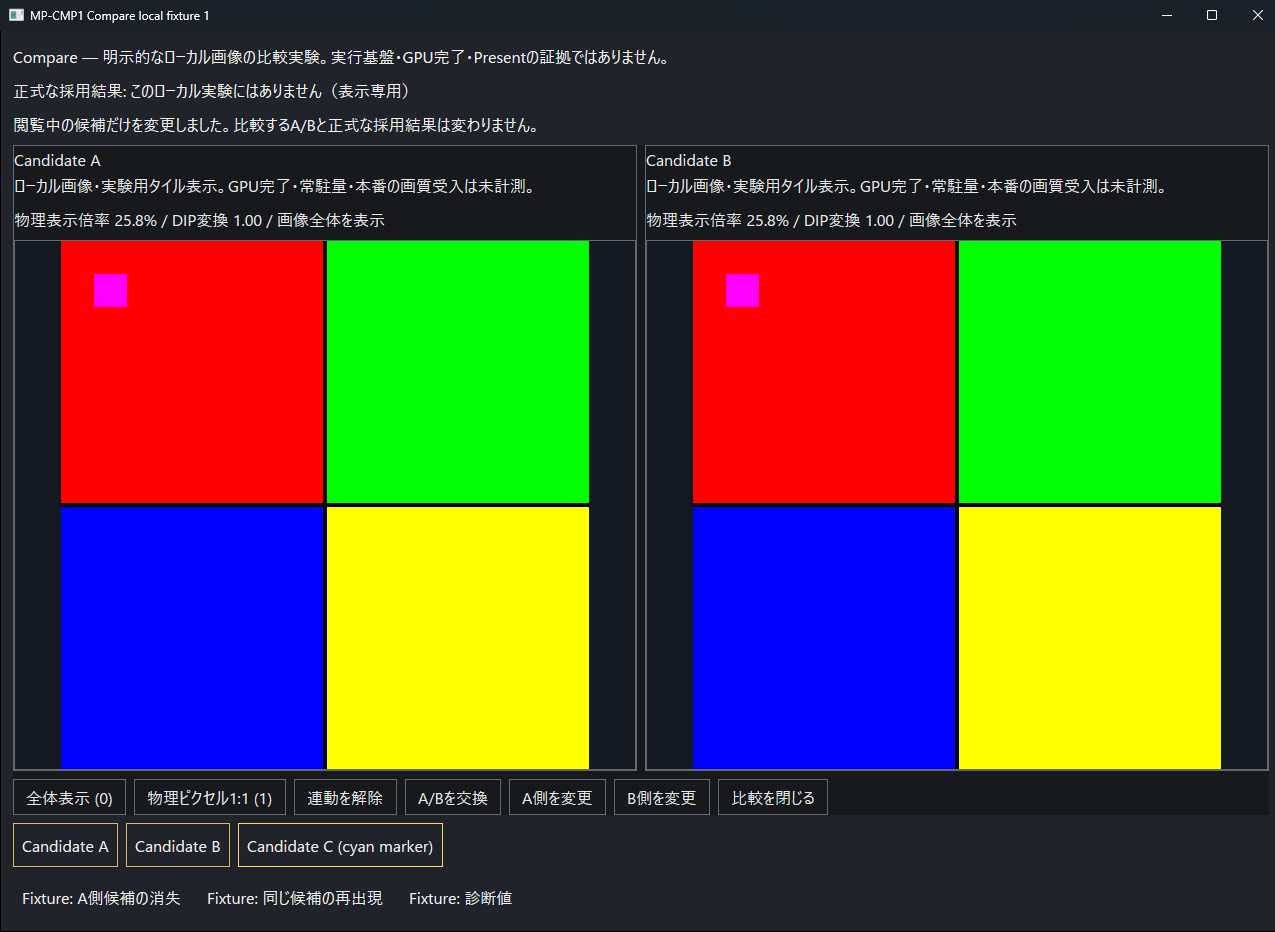
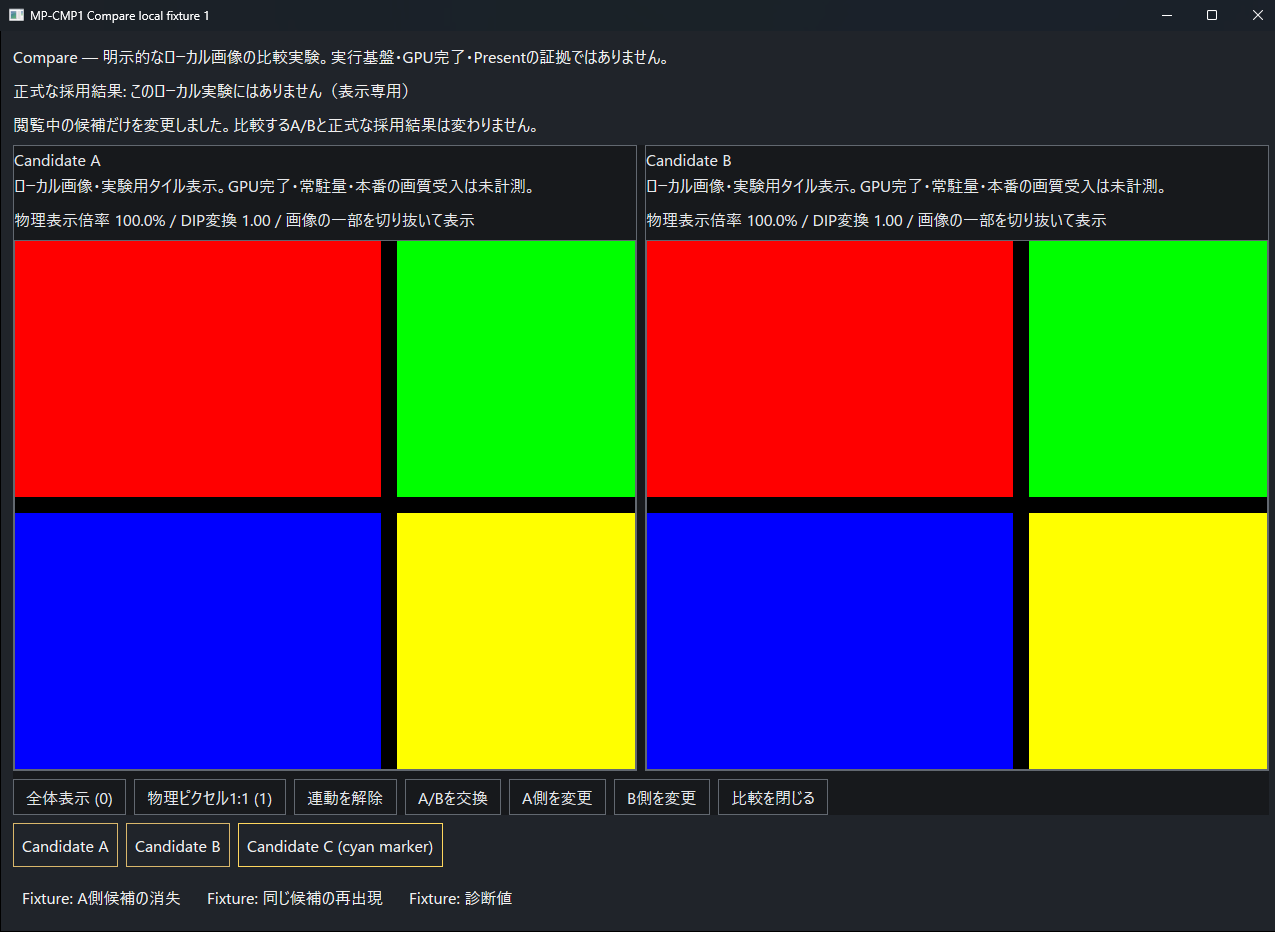
docs(compare): measure the 1:1 restore and align the trace warm-up
Round-7 review repair (PASS 0 / 1 / 0). Evidence only; no product code
changed.

- The restore captures now show what they claim: both panes genuinely at
  physical 1:1 (100%, clipped) before one side leaves the projection, and
  the same side restored at 100% afterwards.
- The plan's warm-up figure matches the published record (113 ms).
- Round 7 is recorded in §19.292 with the verdict and this repair.

Changed region(s): [[0.0, 0.2178, 1.0, 0.8401]]

diff --git a/docs/development/IMPLEMENTATION_MASTER_PLAN.md b/docs/development/IMPLEMENTATION_MASTER_PLAN.md
@@ -5141,7 +5141,7 @@ SecretValue` are all refused; existing redactor behavior is unchanged.
 - **Authority and unchanged scope:** the Caller's plan-completion/resumption instruction under [ADR-0014](../decisions/ADR-0014-YAGNI-SCOPE-AND-RESUMPTION.md), implementing [DC-MP-CMP1](../architecture/DESKTOP_DESIGN_CONTRACTS.md#dc-mp-cmp1) with the values [ADR-0015](../decisions/ADR-0015-UX2-DECISION-CLOSURE.md) ratified (Q5–Q14). No contract, DD, UX, R0 or Runtime owner was amended, and this entry records implementation and observation, not acceptance.
 - **Implementation (`crates/desktop-gpui/src/compare_view.rs`, `image_viewer.rs`, `image_upload.rs`, `lib.rs`, `crates/ui-model/src/lib.rs`, `apps/desktop/examples/compare.rs`):** one shared ideal camera (normalized anchor plus a multiplier over each pane's own contain-fit) with a separate physical 1:1 mode; each pane clamps independently and a clamped anchor is never fed back; unlink keeps each display and only lets later gestures diverge; Swap exchanges candidates between two surviving entities so transforms, ownership and focus stay put; a side replacement keeps the link and resets the pair to Fit; the shell withholds a side whose identity left the projection and states its own reason, and a reappearing side is reported as awaiting its authorized picture rather than keeping the withheld reason under an available label. A same-key treatment attaches one verified frame to both panes (one decode, one entry, two consumers); different keys prepare independent entries. Per-pair Fit and physical 1:1 apply to both panes in either link state, matching ADR-0015 Q6/Q10 and the trace's own operations.
 - **Observed native (release, 100% displays, Windows `10.0.26300.0`):** a linked pan moved both panes by the same amount and preserved their relative offset; after unlink only the originating pane moved; per-pair Fit and 1:1 reset both panes in both link states, with the pixel content matching the stated 25.8% whole view and 100% clipped view; Swap exchanged the labels while each pane kept its own pan and the focus target stayed on the same pane; a plain candidate selection changed only the Viewed choice; a side replacement changed that label, kept the link and returned the pair to Fit; the availability fixtures removed one side with its own unavailable reason, and the same candidate returned at its previous transform in a fresh process; in a run that had already replaced several identities the same action reported the retained-payload bound explicitly instead of showing a stale picture. Close exits 0 in both windows. One close leaves the service reporting one retained entry with one consumer and no pane attachment, and repeated open/replace/close stops at the retained ceiling with the explicit sentence instead of growing; after a close, a reappearing Viewed candidate is re-acquired when its identity can still be admitted and otherwise states that refusal, never a stale picture.
-- **Trace harness, exercised once (`--fixture --shared --trace`):** one JSON line, 1988 ledger rows over 60 s, `ready` after a 115 ms warm-up, `settled`, cancel-probe stage 3 (`submitted`, `restored`, `verified_no_late_overwrite`), zero refusals, `decode_calls` 1, `retained_frames` 1, `consumers` 2 and identical decoded RGBA SHA-256 for both panes; the pair camera delta stayed exactly 0 through the linked pan trace and grew monotonically after the unlink step. The export marks Present, GPU, 8K, mixed DPI, physical 1:1 and cursor-anchored zoom `NOT_MEASURED`, and the fixed five-run × four-variant matrix stays `NOT_RUN` because measured R5 reuse/fairness needs MP-R0D and an explicit experiment authorization.
+- **Trace harness, exercised once (`--fixture --shared --trace`):** one JSON line, 1988 ledger rows over 60 s, `ready` after a 113 ms warm-up, `settled`, cancel-probe stage 3 (`submitted`, `restored`, `verified_no_late_overwrite`), zero refusals, `decode_calls` 1, `retained_frames` 1, `consumers` 2 and identical decoded RGBA SHA-256 for both panes; the pair camera delta stayed exactly 0 through the linked pan trace and grew monotonically after the unlink step. The export marks Present, GPU, 8K, mixed DPI, physical 1:1 and cursor-anchored zoom `NOT_MEASURED`, and the fixed five-run × four-variant matrix stays `NOT_RUN` because measured R5 reuse/fairness needs MP-R0D and an explicit experiment authorization.
 - **Independent review of the uncommitted candidate:** an independent reviewer returned five findings. (1) A pair change in the shell reset only the cameras, so a stale picture could stay under the new label - replaced sides now state that the new candidate's authorized image is not yet shown. (2) A reappearing side kept the withheld reason indefinitely - it now moves to an explicit awaiting-picture state instead of contradicting its label. (3) The trace samples scene readiness before the command but cameras after it - retained as the frozen protocol the definition file states (`scene_sample_order`), because it answers whether the previous scene was composed before the next input arrived. (4) The trace's Fit was pair-wide while the control fitted only the active pane when unlinked - the control is now per-pair in both link states, which also removed the now-unused per-pane `fit`. (5) The trace never covers 1:1 or cursor-anchored zoom - both are now exported as explicit `NOT_MEASURED` scopes instead of being left implicit. The reviewer's camera-origin observation is also applied: a pane's camera event propagates the shared camera without claiming that pane as the interaction origin, so a pair-wide control cannot move the pane Swap returns focus to (Q12).
 - **Independent Gate for the first candidate:** Gate `92249c9f-8789-479e-8db6-623353519921` (`cos-desktop-cmp1-7fe5bad-r1`) is **SUCCEEDED** on pushed `7fe5bade3085dbdf2c56c3e31f281dfcf20ce5d3` in an independent detached checkout with **8/8 checks PASS** (fmt 1.7 s, metadata 0.2 s, dependency self-test 0.5 s, dependency rules 0.2 s, plan ledger 0.4 s, clippy 89.2 s, workspace tests 307.3 s, workspace build 30.6 s), request digest `sha256:0b995aec…`, candidate digest `sha256:f737c755…`, terminal-state digest `sha256:34da2b20…`, 470.9 s, cleanup complete, and `gate verify` exits 0 before and after the exact workspace disposal (3.7 GB removed; the pinned source stays as the pushed `dev` commit). Gate success is neither product acceptance nor release permission.
 - **External review round 1 (Tern, pushed `7fe5bad`):** `PASS 1 / 1 / 0`, `VERDICT: HOLD`, with the reduced feature set confirmed against ADR-0015 and DC-MP-CMP1. (1) BLOCKING: closing Compare with a Viewed candidate outside the pair could not restore that candidate, because the example's selection path only looked for a pair frame and the close path overwrote the picture with an unavailable result - a Viewed candidate outside the pair now acquires its own local input, and closing keeps the picture that selection already loaded (D-7). (2) ACTIONABLE: a swap while one side was unavailable could withdraw the picture it had just attached, because the view's availability still described the pre-swap panes - the flags now swap with the frames, and the example restates its projection after a swap exactly as the host does. Both are repaired and observed natively (`15`/`16` and `08` in the evidence record), and the withheld-viewed close of round 2 is observed as `11`/`12`; the repaired candidate needs its own Gate and review round.
@@ -5150,6 +5150,7 @@ SecretValue` are all refused; existing redactor behavior is unchanged.
 - **External review round 4 (Tern, pushed `6d8b3dd`):** `PASS 1 / 2 / 0`, `VERDICT: FINDINGS REMAIN`; the close-path and per-candidate state repairs were confirmed, with the release proof still wrong. (1) BLOCKING: the frame-callback gate was unsound because `Window::on_next_frame` callbacks run before the frame they belong to draws and do not themselves dirty the window, so two callbacks prove no composed scene - replaced by a composed-frame counter that each window root reports to the upload service, which a closed pane compares against its own detach; observed as one retained entry, one consumer and no pane attachment after a close. (2) ACTIONABLE: an asynchronous preparation failure left the stored reason at "preparing", so a later swap carried the wrong reason - the settled refusal now replaces it, and a successful attach clears it. (3) ACTIONABLE: the experiment kept a spare `Arc` for the disappeared candidate after Compare closed - cleared on close, where a reappearance now re-acquires from its own input. (4) Line endings and the plan's capture count were re-checked: LF everywhere and nineteen captures in the record.
 - **External review round 5 (Tern, pushed `0aae309`):** `PASS 1 / 2 / 0`, `VERDICT: FINDINGS REMAIN`; the callback gate, the settled reason and the spare `Arc` were confirmed. (1) BLOCKING: `release_by_window_scene` was never cleared, so after reopening Compare a pane's own retirements were compared against the window's frame counter - two different clocks - and could release before the pane's own two scenes; each retired entry now carries the clock that produced its reading and is compared only within that clock (regression: open, close, reopen on the same view, replace a side). (2) ACTIONABLE: the per-window frame ledger was never removed; it is forgotten at window teardown, after the window's frames are handled. (3) ACTIONABLE: the evidence record named an older predecessor and round; both are now supplied at publication, so the record states the commit and round it actually answers.
 - **External review round 6 (Tern, pushed `e151c11`):** `PASS 1 / 2 / 0`, `VERDICT: FINDINGS REMAIN`; the per-entry clocks and the evidence provenance were confirmed. (1) BLOCKING: frames retired while the pane was live kept the pane clock, which stops advancing once the pane leaves the tree, and a close with no current frame returned before touching them - so such an entry waited for window teardown. Close now migrates every pane-clock entry to the window clock, which costs two more composed frames and therefore never releases earlier than the rule it replaces, and schedules the sweep even when nothing is current. Observed: replace a side and close immediately; after the close the service reports one retained entry with one consumer and no pane attachment. (2) ACTIONABLE: the experiment's ordinary window-close hook did not forget its frame ledger - it does now, after the window's frames are handled, matching the shell. (3) ACTIONABLE: the published verification string said `workspace tests passed: 0` because it was generated while the check run was still writing - publication now refuses an incomplete or failing summary and records every exit code with its duration.
+- **External review round 7 (Tern, pushed `af87151`):** `PASS 0 / 1 / 0`, `VERDICT: FINDINGS REMAIN`; all three round-6 findings were confirmed closed and no new blocking finding was raised. (1) ACTIONABLE, evidence accuracy: the restore captures were described as proving a physical 1:1 restore while the recorded panes showed the whole view at 25.8%, and the plan's warm-up figure (115 ms) disagreed with the record (113 ms). The restore is re-measured with both panes genuinely at physical 1:1 (100%, clipped) before the disappearance and restored at 100% afterwards, and the warm-up figure now matches the record. No product code changed in this repair.
 - **Second independent review (bounded resources):** a reviewer confirmed the FIFO preparation queue, the per-frame viewer slot under the unchanged period cap, the shared/independent admission ceilings and the camera/swap math, and found one unbounded growth: `prepare_view_independent_generated` creates a pool per preparation under the current device generation, while pruning decided liveness per *generation*, so an already-empty sibling pool survived for the process lifetime and every later admission re-scanned it. Pruning is now per pool usage, and a regression pins that a live generation no longer keeps an empty sibling (`an_empty_pool_is_dropped_even_when_its_generation_retains_a_frame`; the 17 upload tests pass).
 - **Verified locally:** `cargo fmt --all -- --check`, `cargo metadata --locked`, dependency-rules self-test and allowlist check (7 workspace members), plan ledger, `cargo clippy --locked --workspace --all-targets -- -D warnings`, `cargo test --locked --workspace` and `cargo build --locked --workspace` (recorded in the slice's private check log). Two clippy findings in the new admission guard (`collapsible_if`) were repaired by collapsing the reuse checks into let-chains.
 - **Evidence:** [cmp1-compare-latest](evidence-published/cmp1-compare-latest/session.json) binds the source-file and release-binary hashes, the nineteen reviewed captures with their exercised steps, pane text and retention counters, the trace ledger digest and its derived invariants, the local check results and both review rounds. The raw 1.1 MiB ledger stays private in the verification root.
